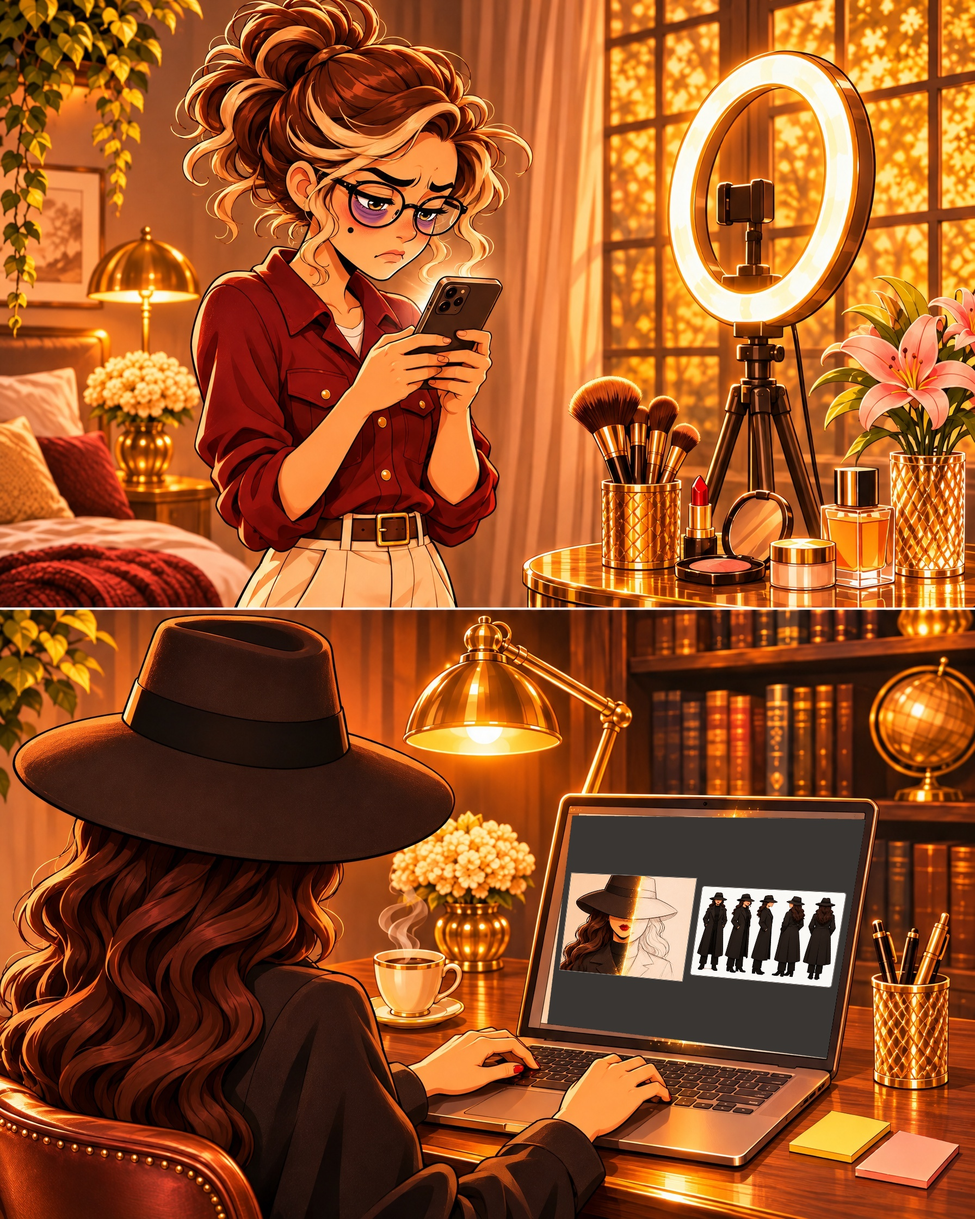
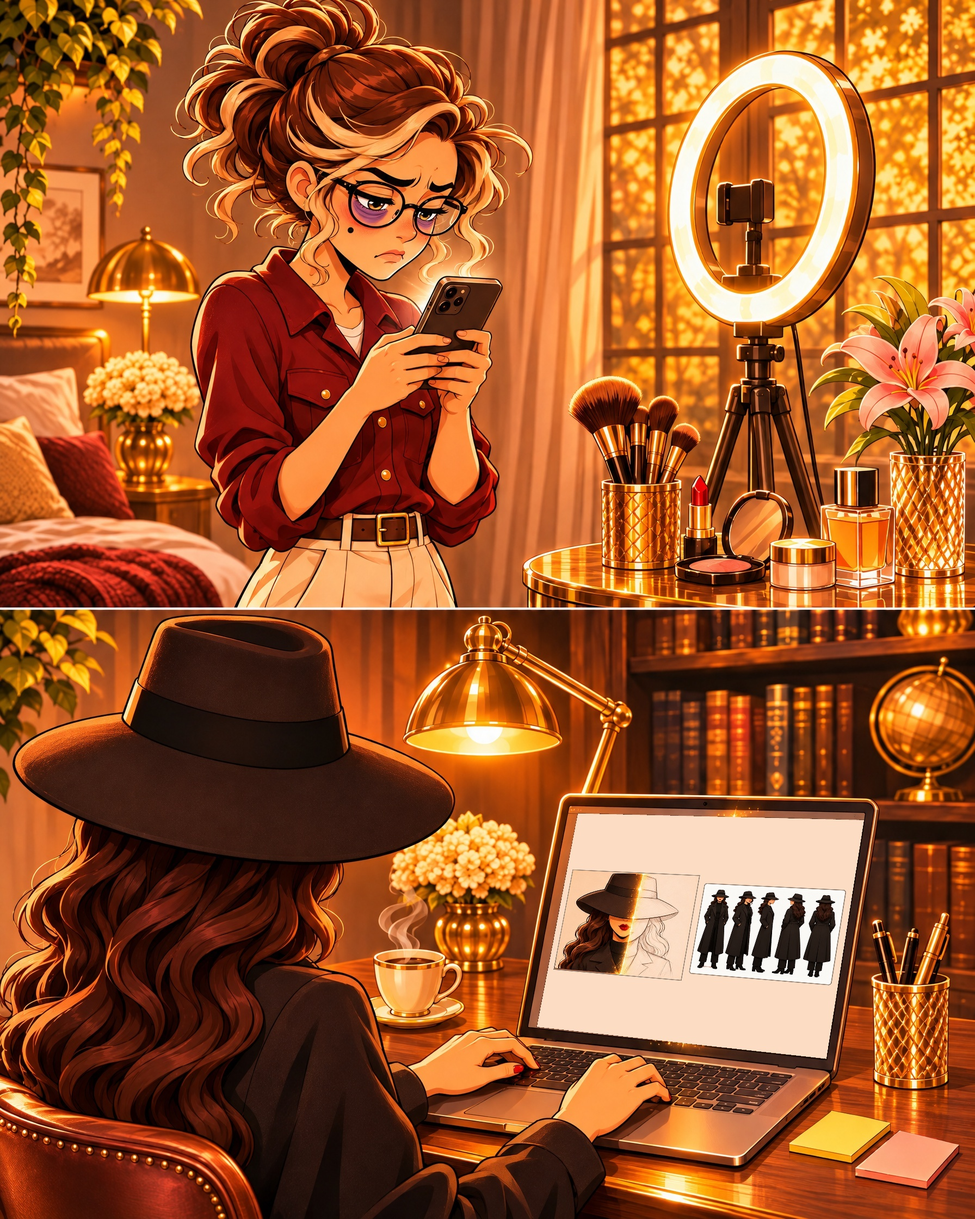
Post6 sayfa 3: laptop ekranı köşelere kadar doldu, zemin ekranın kendi kağıt rengi, ölçüm düzeltildi
Claude-Session: https://claude.ai/code/session_01DJnELUg2datGduMzoawH2g

Changed region(s): [[0.5312, 0.6562, 0.9062, 0.875]]

diff --git a/dark-money/tools/post6_sayfa3_laptop.py b/dark-money/tools/post6_sayfa3_laptop.py
@@ -7,7 +7,7 @@ from PIL import Image, ImageDraw, ImageChops, ImageFilter
 R="/home/user/Diyetisyen-Web/dark-money/images/post6/yazisiz/"
 BASE=R+"kaynak/sayfa3_ilk.jpg"; OUT=R+"sayfa3.jpg"
 SHEET=R+"kaynak/karakter_haritasi.png"
-QUAD=[(1058,1509),(1587,1516),(1518,1943),(1012,1880)]   # ekranın kağıt alanı (sol-üst, sağ-üst, sağ-alt, sol-alt)
+QUAD=[(1063.9,1496.3),(1586.0,1508.1),(1517.1,1943.9),(988.8,1885.8)]   # ekranın kağıt alanı (sol-üst, sağ-üst, sağ-alt, sol-alt)
 FW,FH=1040,860                                              # düz ekran tuvali
 SHEET_BOX=(325,490,1034,972)                                # paltolu kadın: 5 boy görünüm
 
@@ -27,7 +27,7 @@ base=Image.open(BASE).convert("RGB")
 rect=[(0,0),(FW,0),(FW,FH),(0,FH)]
 # 1) mevcut ekranı düzleştir (portre)
 flat=base.transform((FW,FH),Image.PERSPECTIVE,coeffs(rect,QUAD),Image.BICUBIC)
-paper=tuple(int(v) for v in np.median(np.asarray(flat)[14:60,24:120].reshape(-1,3),axis=0))
+paper=tuple(int(v) for v in np.median(np.asarray(flat)[90:150,900:1000].reshape(-1,3),axis=0))
 print("kağıt rengi",paper)
 # portrenin sınırlayıcı kutusu (kağıt renginden farklı alan)
 a=np.asarray(flat).astype(int); diff=np.abs(a-np.array(paper)).max(axis=2)>28
@@ -35,7 +35,7 @@ ys,xs=np.where(diff); bx=(max(0,xs.min()-6),max(0,ys.min()-6),min(FW,xs.max()+6)
 portrait=flat.crop(bx)
 
 # 2) yeni düz ekran: sol portre kartı, sağ karakter haritası kartı
-BG=(58,54,52); CARD=(252,250,247); EDGE=(120,112,106)
+BG=paper; CARD=(252,250,247); EDGE=tuple(int(c*0.62) for c in paper)
 canvas=Image.new("RGB",(FW,FH),BG); d=ImageDraw.Draw(canvas)
 GAP=22; CW=(FW-3*GAP)//2
 # portre kartı
@@ -51,10 +51,9 @@ t=ImageChops.multiply(t,Image.new("RGB",t.size,CARD))
 ch=t.size[1]+30; cy0=(FH-ch)//2; cx0=2*GAP+CW
 d.rounded_rectangle([cx0,cy0,cx0+CW,cy0+ch],10,fill=CARD,outline=EDGE,width=3)
 canvas.paste(t,(cx0+12,cy0+15))
-paper=BG
 
 # 3) tekrar eğimle ekrana yerleştir
-dq=expand([(QUAD[0][0]-4,QUAD[0][1]-9),(QUAD[1][0]+2,QUAD[1][1]-9),QUAD[2],(QUAD[3][0]-4,QUAD[3][1])],2.5)
+dq=expand(QUAD,2.5)
 layer=canvas.transform(base.size,Image.PERSPECTIVE,coeffs(dq,rect),Image.BICUBIC)
 mask=Image.new("L",(base.size[0]*3,base.size[1]*3),0)
 ImageDraw.Draw(mask).polygon([(x*3,y*3) for x,y in dq],fill=255)
